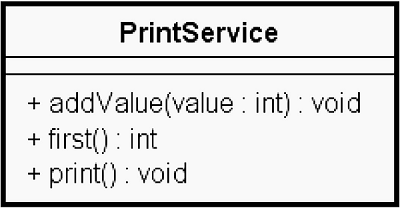
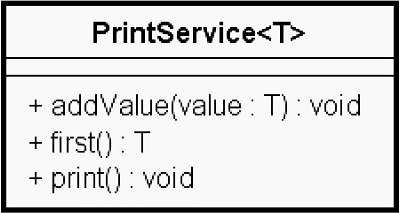
Solution | Example 03 | Section Generics, Set and Map

diff --git a/Section_O15_Generics_Set_and_Map/ProblemStatementExample03/src/com/souza/charles/model/services/PrintService.java b/Section_O15_Generics_Set_and_Map/ProblemStatementExample03/src/com/souza/charles/model/services/PrintService.java
@@ -9,15 +9,15 @@ package com.souza.charles.model.services;
 import java.util.ArrayList;
 import java.util.List;
 
-public class PrintService {
+public class PrintService <T>{
 
-    List<Object> list = new ArrayList<>();
+    List<T> list = new ArrayList<>();
 
-    public void addValue(Object value) {
+    public void addValue(T value) {
         list.add(value);
     }
 
-    public Object first() {
+    public T first() {
         if (list.isEmpty()) {
             throw new IllegalStateException("List is empty!");
         }

diff --git a/Section_O15_Generics_Set_and_Map/ProblemStatementExample03/src/com/souza/charles/view/application/App.java b/Section_O15_Generics_Set_and_Map/ProblemStatementExample03/src/com/souza/charles/view/application/App.java
@@ -14,7 +14,7 @@ public class App {
 
     public static void main(String[] args) {
         Scanner scanner = new Scanner(System.in);
-        PrintService printService = new PrintService();
+        PrintService <Integer> printService = new PrintService<>();
         System.out.print("How many values? ");
         int N = scanner.nextInt();
         for (int i = 0; i < N; i++) {

diff --git a/Section_O15_Generics_Set_and_Map/ProblemStatementExample03/README.md b/Section_O15_Generics_Set_and_Map/ProblemStatementExample03/README.md
@@ -1,13 +1,13 @@
-# Problem Statement Example 02
+# Problem Statement Example 03
 
-## Motivating Problem 02 (Type Safety & Performance)
+## Solution with Generics
 
 **Instructions**: Write a program that reads an integer N, followed by N integer numbers. Print the numbers in a
 formatted list as shown in the example. Finally, output the first number entered.
 
 ### PrintService Model
 
-![Print Service Model](https://github.com/souzafcharles/Complete-Java-Object-Oriented-Programming-and-Projects/blob/master/Section_O15_Generics_Set_and_Map/ProblemStatementExample02/print-service-model.png)
+![Print Service Model](https://github.com/souzafcharles/Complete-Java-Object-Oriented-Programming-and-Projects/blob/master/Section_O15_Generics_Set_and_Map/ProblemStatementExample03/print-service-model.png)
 
 ### Example Inputs and Outputs
 
